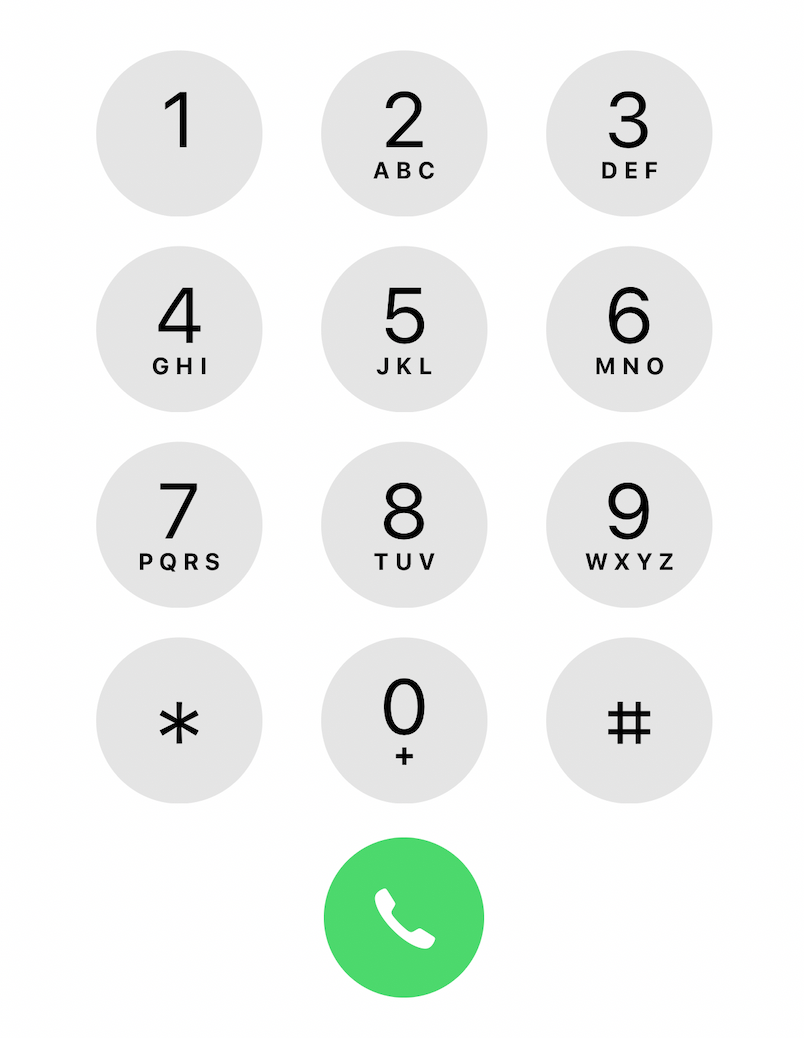
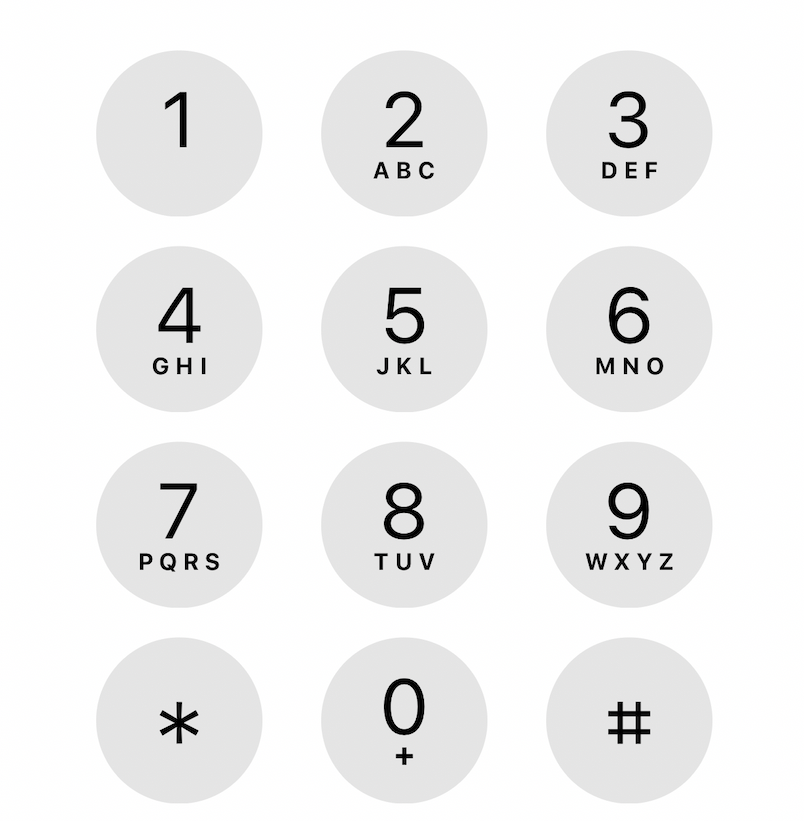
changed submit/call button to be a phone ( start of button integration)

diff --git a/static/styles.css b/static/styles.css
@@ -420,21 +420,46 @@ body {
     font-size: 18px;
     text-transform: uppercase;
 }
-
-#submit-btn {
-    padding: 10px;
-    font-size: 18px;
+/* Base style for circular button */
+.circle-button {
+    position: absolute;
+    left: 50%;              /* Move to middle horizontally */
+    transform: translateX(-50%); /* Truly center it */
+    z-index: 10;            /* Ensure it stays above other elements */
     margin-top: 10px;
-    cursor: pointer;
-    background: #007BFF;
-    color: white;
+    width: 75px;
+    height: 75px;
+    border-radius: 50%;
     border: none;
-    border-radius: 5px;
+    background-color: gray;
+    display: flex;
+    align-items: center;
+    justify-content: center;
+    cursor: not-allowed;
+    transition: background-color 0.3s ease;
+    padding: 0;
 }
 
-#submit-btn:disabled {
-    background: #ccc;
-    cursor: not-allowed;
+/* Icon inside the button */
+.circle-icon {
+    width: 28px;
+    height: 28px;
+}
+
+/* Active (ready to submit) state */
+.circle-button.active {
+    background-color: #28a745;
+    cursor: pointer;
+}
+
+/* Optional hover effect when active */
+.circle-button.active:hover {
+    background-color: #218838;
+}
+
+/* Disable click styling when not ready */
+.circle-button.disabled {
+    pointer-events: none;
 }
 
 
@@ -536,10 +561,6 @@ body {
 
 
 
-
-
-
-
 /* ✅ Share button (larger & green) */
 #share-btn {
     padding: 20px 36px; /* 🔹 Increase padding for a larger button */
@@ -549,10 +570,16 @@ body {
     cursor: pointer;
     background: #28a745; /* ✅ Green button */
     color: white;
-    border: none;
+    border: none;;
     border-radius: 8px; /* 🔹 Slightly rounded corners */
     transition: background 0.2s ease-in-out;
 }
+
+.button-icon {
+    width: 48px; /* Adjust size as needed */
+    height: 48px;
+}
+
 
 /* ✅ Share button hover effect */
 #share-btn:hover {

diff --git a/static/script.js b/static/script.js
@@ -253,13 +253,28 @@ function highlightCurrentCell(index) {
 
 function checkInput() {
     const cells = document.querySelectorAll(".input-cell");
-    
-    // Get user input, preserving spaces, but avoiding empty cells being counted
-    let guess = Array.from(cells).map(cell => (cell.textContent.length === 0 ? "_" : cell.textContent)).join("");
-    
-    // Ensure the submit button is only enabled when all 10 cells are filled with letters or spaces
-    document.getElementById("submit-btn").disabled = guess.length !== 10 || guess.includes("_");
+
+    // Build the guess
+    let guess = Array.from(cells).map(cell =>
+        (cell.textContent.length === 0 ? "_" : cell.textContent)
+    ).join("");
+
+    const submitBtn = document.getElementById("submit-btn");
+    const isValid = guess.length === 10 && !guess.includes("_");
+
+    // Enable/disable button
+    submitBtn.disabled = !isValid;
+
+    // Toggle visual classes
+    if (isValid) {
+        submitBtn.classList.remove("disabled");
+        submitBtn.classList.add("active");
+    } else {
+        submitBtn.classList.add("disabled");
+        submitBtn.classList.remove("active");
+    }
 }
+
 
 document.addEventListener("DOMContentLoaded", () => {
     createInputGrid();

diff --git a/templates/index.html b/templates/index.html
@@ -114,8 +114,12 @@
             <img src="{{ url_for('static', filename='lightmode-keypad.png') }}" alt="Phone Keypad" class="keyboard-image">
         </div>
         
-        <button id="submit-btn" onclick="submitGuess()" disabled>Enter</button>
-        <!-- ✅ Share Button (Hidden Until Game Ends) -->
+        <button id="submit-btn" class="circle-button disabled" disabled>
+            <img src="static/phoneicon.png" alt="Call" class="circle-icon">
+        </button>
+        <!-- Share button to reopen popup -->
+        <button id="share-btn" class="hidden-share share-btn" onclick="showShareablePopup()">Share</button>
+        
         
         <div id="shareable-popup" class="hidden">
             <button id="close-popup">✖</button> <!-- ✅ Moved to top right -->
@@ -138,12 +142,6 @@
                 </p>
             </div>
         </div>
-        
-        </div>
-        
-        <!-- Share button to reopen popup -->
-        <button id="share-btn" class="hidden-share share-btn" onclick="showShareablePopup()">Share</button>
-        
     </div>
 </body>
 </html>
